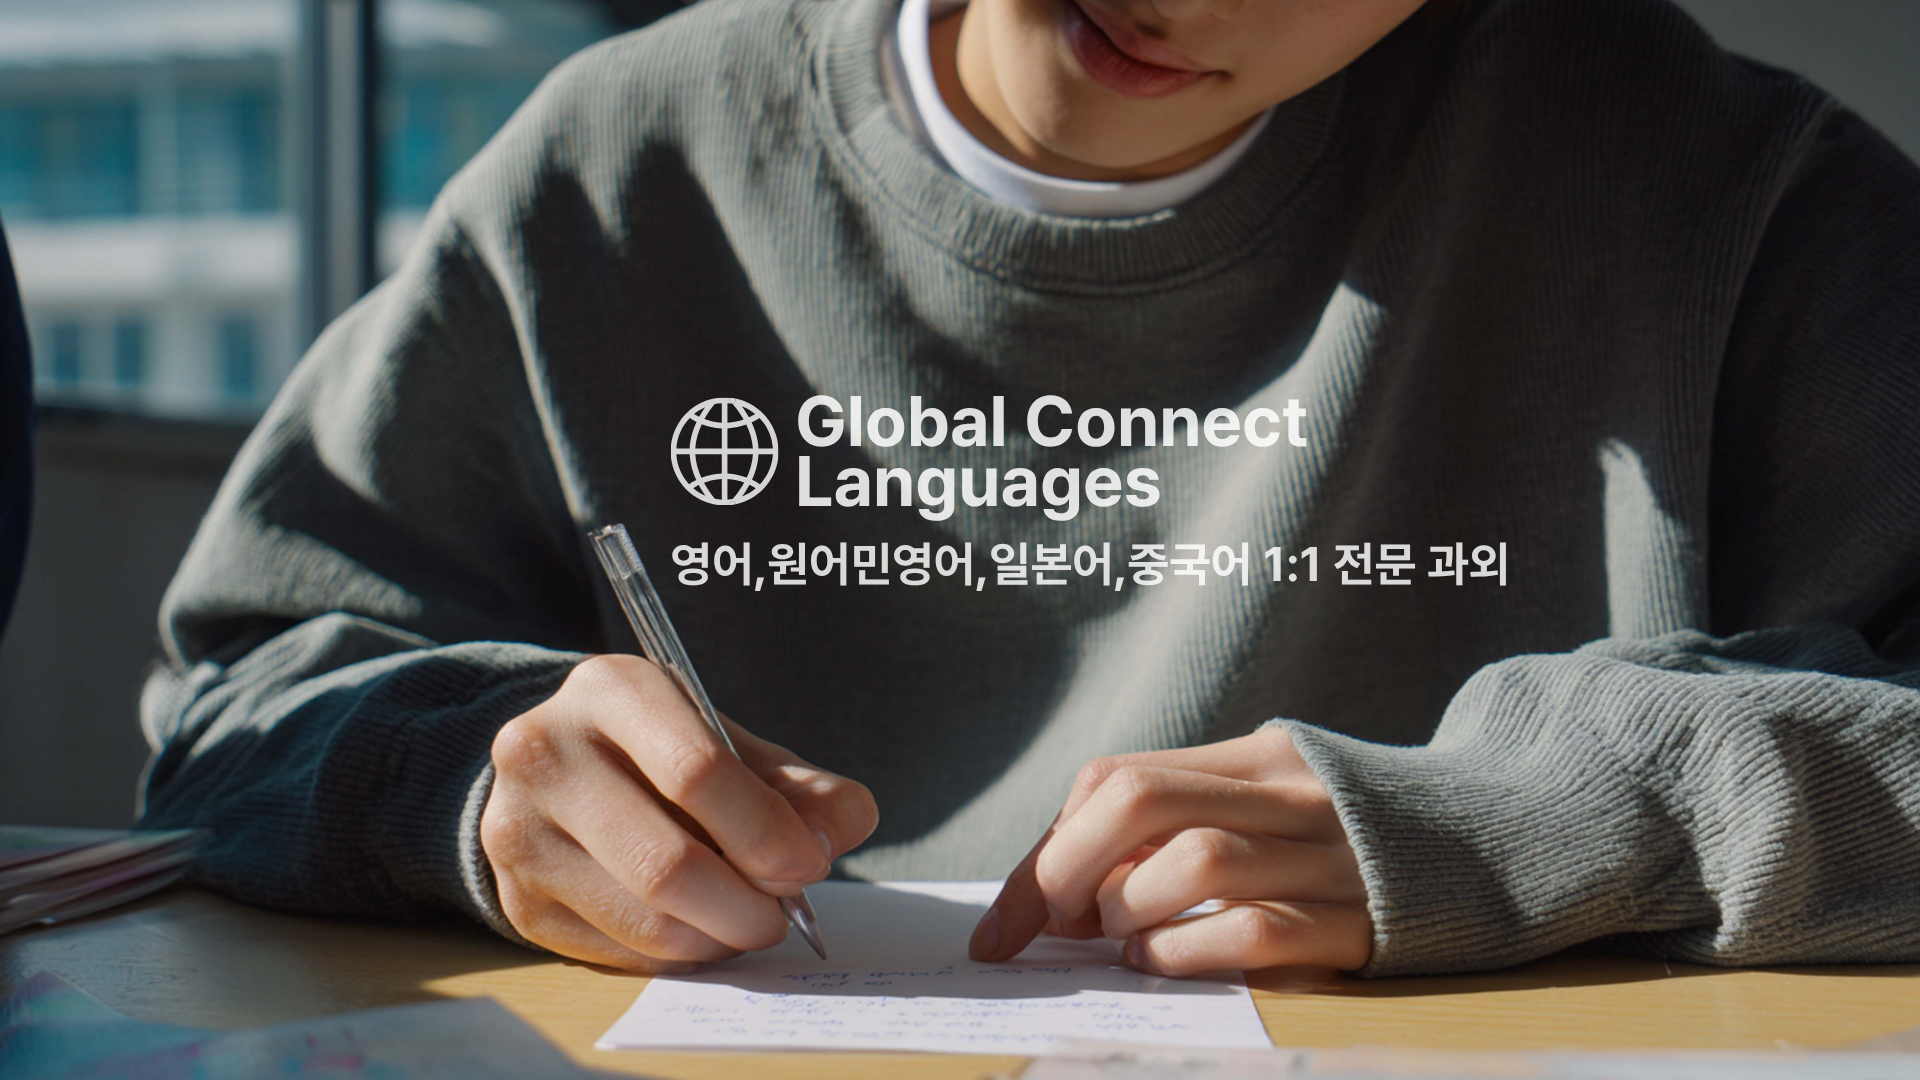
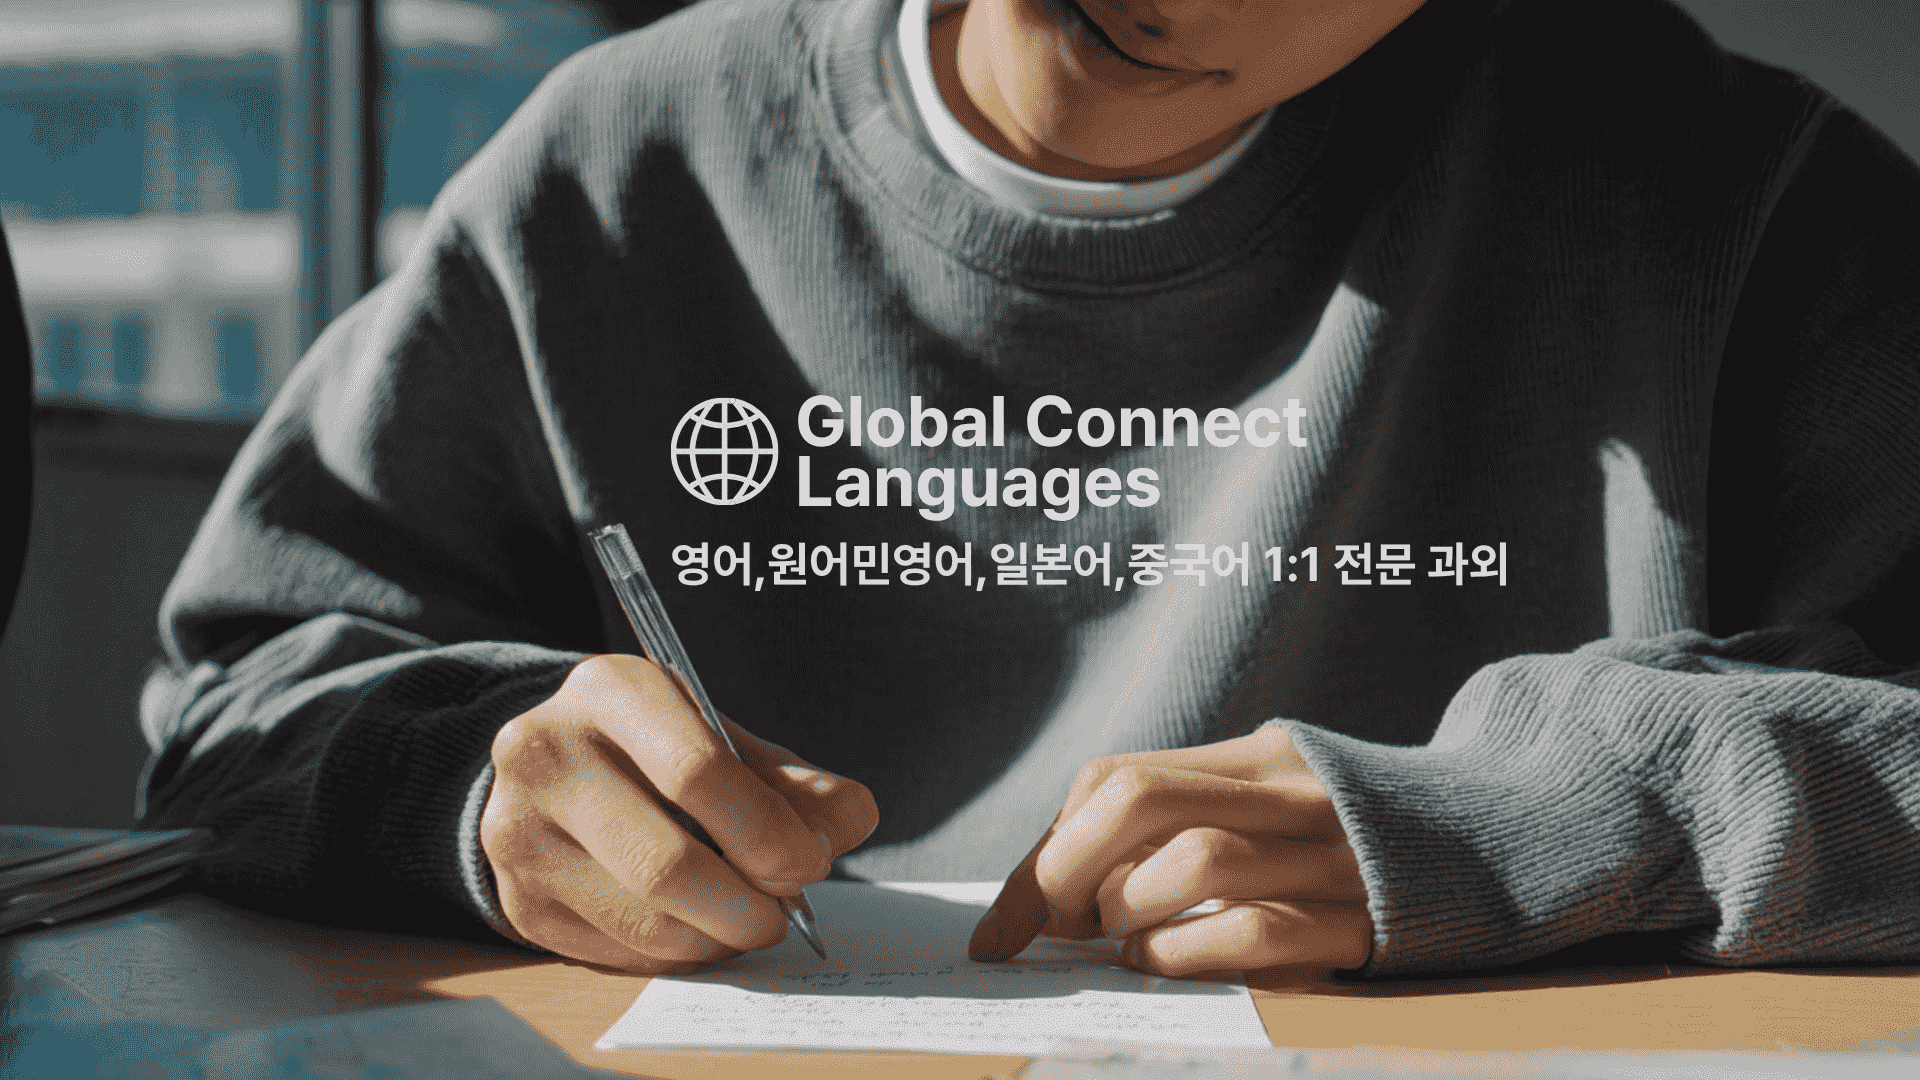
[/power 홈 최상단 풀와이드 배너 추가 — 데스크톱·모바일 에셋 분리]
헤더 바로 아래 최상단에 배너 섹션 삽입. 기존 첫 섹션 이하 전부 무변경(순수 삽입 +28라인).

- <picture> 로 반응형 분기: ≥768px = hero-desktop(16:9) / 그 미만 = hero-mobile(3:4).
  브라우저가 한 장만 내려받고(중복 다운로드 없음), 최상단이라 eager 로 즉시 로드.
  next/image + unoptimized 로 원본 경로 <img src> 노출. w-full·h-auto 라 크롭·문구 잘림 없음.
- alt "영어, 원어민영어, 일본어, 중국어 1:1 전문 과외 어학의참견"(문구가 이미지에 포함, 오버레이 없음)
- 이미지 in-place 압축(.png 유지): hero-desktop 2,945KB → 327KB(1920x1080),
  hero-mobile 1,177KB → 144KB(750x1000). 목표(350/250KB) 이하, 배너 문구 가독 유지.

검증: 데스크톱 1280px → hero-desktop, ratio 1.778(16:9) / 모바일 390px → hero-mobile,
ratio 0.750(3:4), 각 조건에서 해당 에셋만 전송(반대편 0KB), 390px 가로 스크롤 없음,
기존 섹션 삭제 라인 0, 빌드 exit 0.

diff --git a/src/app/power/page.tsx b/src/app/power/page.tsx
@@ -53,6 +53,9 @@ export const metadata: Metadata = {
 // 페이지 내 상담 폼(#consult) 으로 모으는 인페이지 CTA.
 const CONSULT_ANCHOR = "#consult";
 
+// 최상단 배너 대체 텍스트 — 문구가 이미지에 포함되어 있어 alt 로 동일 정보를 제공한다.
+const BANNER_ALT = "영어, 원어민영어, 일본어, 중국어 1:1 전문 과외 어학의참견";
+
 // 학습사례를 3개 그룹으로 묶는다(카테고리 표준값 기준). 데이터는 languageCases.ts 그대로.
 const caseGroups = CASE_GROUPS.map((g) => ({
   ...g,
@@ -62,6 +65,31 @@ const caseGroups = CASE_GROUPS.map((g) => ({
 export default function PowerPage() {
   return (
     <>
+      {/* ── 0. 최상단 풀와이드 배너 (문구는 이미지에 포함 — 오버레이 없음) ──
+           <picture> 로 데스크톱 16:9(≥768px) / 모바일 3:4 에셋을 분기한다.
+           브라우저가 조건에 맞는 한 장만 내려받고(중복 다운로드 없음), 최상단이라 eager 로 즉시 로드한다.
+           w-full·h-auto 라 원본 비율 그대로 — 크롭·문구 잘림 없음. */}
+      <section aria-label={BANNER_ALT} className="w-full">
+        <picture>
+          <source
+            media="(min-width: 768px)"
+            srcSet="/power/hero-desktop.png"
+            width={1920}
+            height={1080}
+          />
+          <Image
+            src="/power/hero-mobile.png"
+            alt={BANNER_ALT}
+            width={750}
+            height={1000}
+            sizes="100vw"
+            loading="eager"
+            unoptimized
+            className="h-auto w-full"
+          />
+        </picture>
+      </section>
+
       {/* ── 1. 히어로 (카피 그대로 + 우측/하단 이미지 분할) ────────────── */}
       <section
         aria-labelledby="power-hero-heading"
